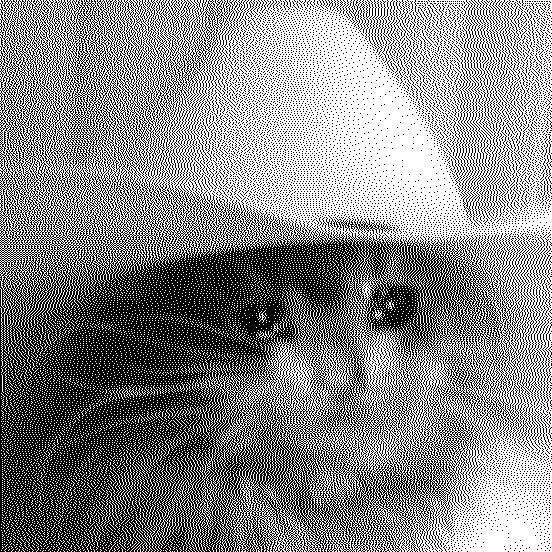
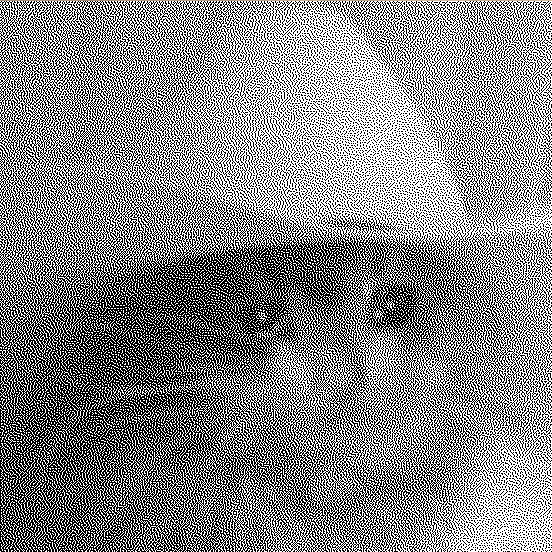
Further macrofying

diff --git a/src/dither/errorpropagate.rs b/src/dither/errorpropagate.rs
@@ -56,90 +56,93 @@ macro_rules! error_prop_fn {
     };
 }
 
-pub mod floydsteinberg {
-    use image::DynamicImage;
-    use crate::{error_prop_fn, dither::errorpropagate::error_propagate_through_pixels};
+macro_rules! error_prop_mod {
+    ($mod_name:ident, {$($fn_name:ident $matrix_name:ident [$($matrix:tt)*]{$error_amnt:expr, $portion_amnt:expr})*}) => {
+        pub mod $mod_name {
+            use image::DynamicImage;
+            use crate::{error_prop_fn, dither::errorpropagate::error_propagate_through_pixels};        
 
-    static MATRIX: [(i8, i8, u8); 4] = [
-                            (1, 0, 7),
-        (-1, 1, 5),(0, 1, 3),(1, 1, 1),
-    ];
+            $(
+                static $matrix_name: [(i8, i8, u8); $error_amnt] = [$($matrix)*];
+            )*
 
-    error_prop_fn!(floyd_steinberg_mono_dither, MATRIX, 16);
+            $(
+                error_prop_fn!($fn_name, $matrix_name, $portion_amnt);
+            )*
+        }
+    };
 }
 
-pub mod jarvisjudiceninke {
-    use image::DynamicImage;
-    use crate::{error_prop_fn, dither::errorpropagate::error_propagate_through_pixels};
+error_prop_mod!(
+    floydsteinberg,
+    { 
+        floyd_steinberg_mono_dither MATRIX [
+                                 (1, 0, 7),
+            (-1, 1, 5),(0, 1, 3),(1, 1, 1),
+        ]{4, 16}
+    }
+);
 
-    static MATRIX: [(i8, i8, u8); 12] = [
-                                        (1, 0, 7),(2, 0, 5),
-        (-2, 1, 3),(-1, 1, 5),(0, 1, 7),(1, 1, 5),(2, 1, 3),
-        (-2, 2, 1),(-1, 2, 3),(0, 2, 5),(1, 2, 3),(2, 2, 1),
-    ];
+error_prop_mod!(
+    jarvisjudiceninke,
+    { 
+        jarvis_judice_ninke_mono_dither MATRIX [
+                                            (1, 0, 7),(2, 0, 5),
+            (-2, 1, 3),(-1, 1, 5),(0, 1, 7),(1, 1, 5),(2, 1, 3),
+            (-2, 2, 1),(-1, 2, 3),(0, 2, 5),(1, 2, 3),(2, 2, 1),
+        ]{12, 48}
+    }
+);
 
-    error_prop_fn!(jarvis_judice_ninke_mono_dither, MATRIX, 48);
-}
+error_prop_mod!(
+    atkinson,
+    { 
+        atkinson_mono_dither MATRIX [
+                                 (1, 0, 1),(2, 0, 1),
+            (-1, 1, 1),(0, 1, 1),(1, 1, 1),
+                       (0, 2, 1)
+        ]{6, 8}
+    }
+);
 
-pub mod atkinson {
-    use image::DynamicImage;
-    use crate::{error_prop_fn, dither::errorpropagate::error_propagate_through_pixels};
+error_prop_mod!(
+    burkes,
+    { 
+        burkes_mono_dither MATRIX [
+                                               (1, 0, 8), (2, 0, 4),
+            (-2, 1, 2), (-1, 1, 4), (0, 1, 8), (1, 1, 4), (2, 1, 2),
+        ]{7, 32}
+    }
+);
 
-    static MATRIX: [(i8, i8, u8); 6] = [
-                               (1, 0, 1), (2, 0, 1),
-        (-1, 1, 1), (0, 1, 1), (1, 1, 1), 
-                    (0, 2, 1)
-    ];
+error_prop_mod!(
+    stucki,
+    { 
+        stucki_mono_dither MATRIX [
+                                            (1, 0, 8),(2, 0, 4),
+            (-2, 1, 2),(-1, 1, 4),(0, 1, 8),(1, 1, 4),(2, 1, 2),
+            (-2, 2, 1),(-1, 2, 2),(0, 2, 4),(1, 2, 2),(2, 2, 1),
+        ]{12, 42}
+    }
+);
 
-    error_prop_fn!(atkinson_mono_dither, MATRIX, 8);
-}
+error_prop_mod!(
+    sierra,
+    {
+        sierra_mono_dither MATRIX [
+                                            (1, 0, 5),(2, 0, 3),
+            (-2, 1, 2),(-1, 1, 4),(0, 1, 5),(1, 1, 4),(2, 1, 2),
+                       (-1, 2, 2),(0, 2, 3),(1, 2, 2),
+        ]{10, 32}
 
-pub mod burkes {
-    use image::DynamicImage;
-    use crate::{error_prop_fn, dither::errorpropagate::error_propagate_through_pixels};
+        two_row_sierra_mono_dither TWO_ROW_MATRIX [
+                                            (1, 0, 4),(2, 0, 3),
+            (-2, 1, 1),(-1, 1, 2),(0, 1, 3),(1, 1, 2),(2, 1, 1),
+        ]{7, 16}
 
-    static MATRIX: [(i8, i8, u8); 7] = [
-                                           (1, 0, 8), (2, 0, 4),
-        (-2, 1, 2), (-1, 1, 4), (0, 1, 8), (1, 1, 4), (2, 1, 2),
-    ];
-
-    error_prop_fn!(burkes_mono_dither, MATRIX, 32);
-}
-
-pub mod stucki {
-    use image::DynamicImage;
-    use crate::{error_prop_fn, dither::errorpropagate::error_propagate_through_pixels};
-
-    static MATRIX: [(i8, i8, u8); 12] = [
-                                        (1, 0, 8),(2, 0, 4),
-        (-2, 1, 2),(-1, 1, 4),(0, 1, 8),(1, 1, 4),(2, 1, 2),
-        (-2, 2, 1),(-1, 2, 2),(0, 2, 4),(1, 2, 2),(2, 2, 1),
-    ];
-
-    error_prop_fn!(stucki_mono_dither, MATRIX, 42);
-}
-
-pub mod sierra {
-    use image::DynamicImage;
-    use crate::{error_prop_fn, dither::errorpropagate::error_propagate_through_pixels};
-
-    static MATRIX: [(i8, i8, u8); 10] = [
-                                        (1, 0, 5),(2, 0, 3),
-        (-2, 1, 2),(-1, 1, 4),(0, 1, 5),(1, 1, 4),(2, 1, 2),
-                   (-1, 2, 2),(0, 2, 3),(1, 2, 2),
-    ];
-
-    static TWO_ROW_MATRIX: [(i8, i8, u8); 7] = [
-                                        (1, 0, 4),(2, 0, 3),
-        (-2, 1, 1),(-1, 1, 2),(0, 1, 3),(1, 1, 2),(2, 1, 1),
-    ];
-
-    static LITE_MATRIX: [(i8, i8, u8); 3] = [
-                             (1, 0, 2),
-        (-1, 1, 1),(0, 1, 1)
-    ];
-
-    error_prop_fn!(sierra_mono_dither, MATRIX, 32);
-    error_prop_fn!(two_row_sierra_mono_dither, TWO_ROW_MATRIX, 16);
-    error_prop_fn!(sierra_lite_mono_dither, LITE_MATRIX, 4);
-}
+        sierra_lite_mono_dither LITE_MATRIX [
+                                 (1, 0, 2),
+            (-1, 1, 1),(0, 1, 1)
+        ]{3, 4}
+    }
+);

diff --git a/src/main.rs b/src/main.rs
@@ -50,45 +50,45 @@ fn mono(image: &DynamicImage) -> ImageResult<()> {
         .dither(image.clone())
         .save("data/jarvis-judice-ninke-mono.png")?;
 
-    // Dithers::StuckiMono
-    //     .dither(image.clone())
-    //     .save("data/stucki-mono.png")?;
+    Dithers::StuckiMono
+        .dither(image.clone())
+        .save("data/stucki-mono.png")?;
 
-    // Dithers::AtkinsonMono
-    //     .dither(image.clone())
-    //     .save("data/atkinson-mono.png")?;
+    Dithers::AtkinsonMono
+        .dither(image.clone())
+        .save("data/atkinson-mono.png")?;
 
-    // Dithers::BurkesMono
-    //     .dither(image.clone())
-    //     .save("data/burkes-mono.png")?;
+    Dithers::BurkesMono
+        .dither(image.clone())
+        .save("data/burkes-mono.png")?;
 
-    // Dithers::SierraMono
-    //     .dither(image.clone())
-    //     .save("data/sierra-mono.png")?;
+    Dithers::SierraMono
+        .dither(image.clone())
+        .save("data/sierra-mono.png")?;
 
-    // Dithers::SierraTwoRowMono
-    //     .dither(image.clone())
-    //     .save("data/sierra-two-row-mono.png")?;
+    Dithers::SierraTwoRowMono
+        .dither(image.clone())
+        .save("data/sierra-two-row-mono.png")?;
 
-    // Dithers::SierraLiteMono
-    //     .dither(image.clone())
-    //     .save("data/sierra-lite-mono.png")?;
+    Dithers::SierraLiteMono
+        .dither(image.clone())
+        .save("data/sierra-lite-mono.png")?;
 
-    // Dithers::BayerMono(2)
-    //     .dither(image.clone())
-    //     .save("data/bayer-2x2-mono.png")?;
+    Dithers::BayerMono(2)
+        .dither(image.clone())
+        .save("data/bayer-2x2-mono.png")?;
 
-    // Dithers::BayerMono(4)
-    //     .dither(image.clone())
-    //     .save("data/bayer-4x4-mono.png")?;
+    Dithers::BayerMono(4)
+        .dither(image.clone())
+        .save("data/bayer-4x4-mono.png")?;
 
-    // Dithers::BayerMono(8)
-    //     .dither(image.clone())
-    //     .save("data/bayer-8x8-mono.png")?;
+    Dithers::BayerMono(8)
+        .dither(image.clone())
+        .save("data/bayer-8x8-mono.png")?;
 
-    // Dithers::BayerMono(16)
-    //     .dither(image.clone())
-    //     .save("data/bayer-16x16-mono.png")?;
+    Dithers::BayerMono(16)
+        .dither(image.clone())
+        .save("data/bayer-16x16-mono.png")?;
 
     Ok(())
 }
